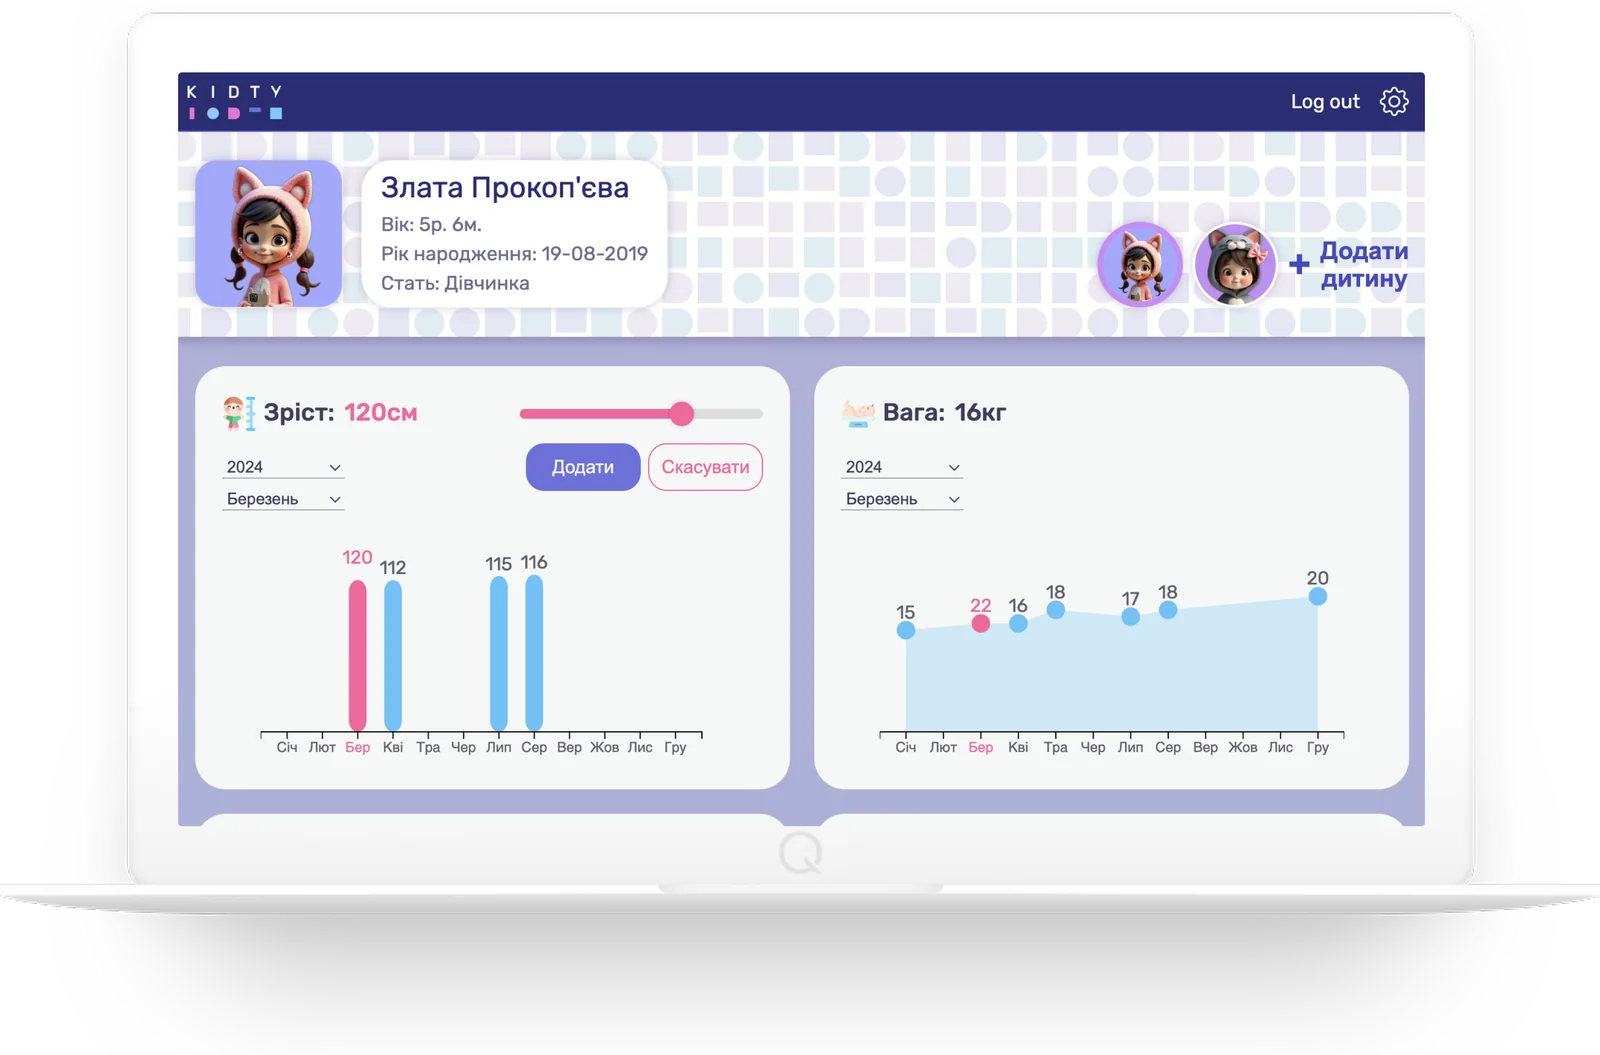
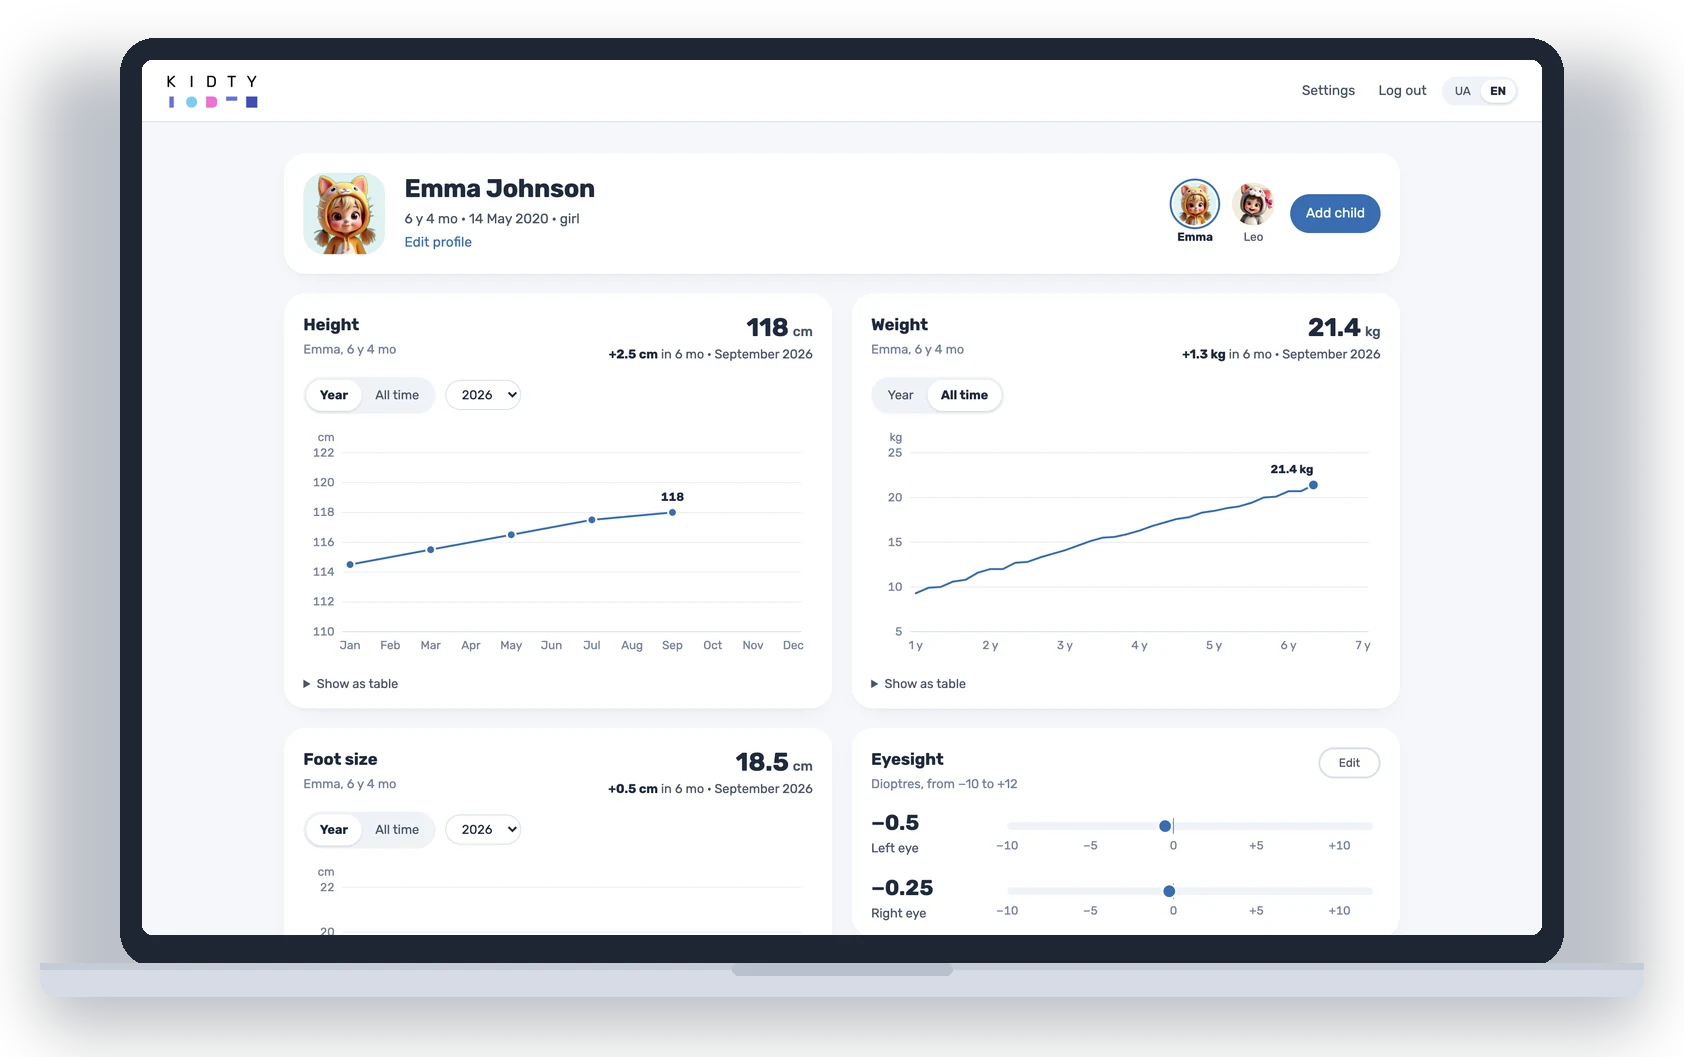
New English screenshots for the home page
- showcase seed (npm run db:seed:showcase): Emma and Leo Johnson with
  several years of measurements, eyesight and vaccinations
- scripts/screenshots: headless-Chrome capture over CDP and device
  frames (laptop, phone with status bar); see README
- replace the old purple mockups; phone bleeds out of its section
- charts: label every other month on narrow widths, hide individual
  dots on dense all-time charts (they broke up the line)

diff --git a/apps/api/prisma/seed-showcase.ts b/apps/api/prisma/seed-showcase.ts
@@ -1,0 +1,142 @@
+// Creates an English-named showcase account with several years of data,
+// used for screenshots on the home page. Re-runnable; leaves other
+// accounts untouched. Run with `npm run db:seed:showcase`.
+import argon2 from 'argon2';
+import { Prisma } from '../src/generated/prisma/client.js';
+import { prisma } from '../src/db.js';
+
+const email = process.env.SEED_SHOWCASE_EMAIL ?? 'showcase@kidty.local';
+const password = process.env.SEED_USER_PASSWORD;
+
+if (!password) {
+  throw new Error('Set SEED_USER_PASSWORD in apps/api/.env before seeding');
+}
+
+// Typical growth by age in months (roughly the WHO median for girls).
+const AGES = [12, 24, 36, 48, 60, 72, 84];
+const HEIGHT = [74.0, 85.7, 95.1, 102.7, 109.4, 115.1, 120.8];
+const WEIGHT = [8.9, 11.5, 13.9, 16.1, 18.2, 20.2, 22.4];
+const FOOT = [12.5, 13.8, 15.0, 16.2, 17.3, 18.3, 19.2];
+
+function interpolate(values: number[], age: number) {
+  if (age <= AGES[0]) return values[0];
+  for (let i = 1; i < AGES.length; i++) {
+    if (age <= AGES[i]) {
+      const t = (age - AGES[i - 1]) / (AGES[i] - AGES[i - 1]);
+      return values[i - 1] + (t * (values[i] - values[i - 1]));
+    }
+  }
+  return values.at(-1)!;
+}
+
+/** Deterministic pseudo-random noise so the data looks the same each run. */
+function noise(seed: number) {
+  const x = Math.sin(seed * 9301 + 49297) * 233280;
+  return x - Math.floor(x) - 0.5;
+}
+
+const round = (value: number, step: number) => Math.round(value / step) * step;
+
+type Birth = { year: number; month: number };
+
+function growthHistory(birth: Birth, until: Birth, everyMonths: number, offset: number) {
+  const rows: { type: 'HEIGHT' | 'WEIGHT' | 'FOOT'; year: number; month: number; value: Prisma.Decimal }[] = [];
+  let height = 0;
+  let foot = 0;
+  for (let age = 12; ; age += everyMonths) {
+    const total = (birth.year * 12) + (birth.month - 1) + age;
+    const year = Math.floor(total / 12);
+    const month = (total % 12) + 1;
+    if ((year * 12) + month > (until.year * 12) + until.month) break;
+
+    height = Math.max(height, round(interpolate(HEIGHT, age) + offset + (noise(age) * 0.6), 0.5));
+    foot = Math.max(foot, round(interpolate(FOOT, age) + (noise(age + 1) * 0.4), 0.5));
+    const weight = round(interpolate(WEIGHT, age) + (offset / 4) + (noise(age + 2) * 0.5), 0.1);
+
+    for (const [type, value] of [['HEIGHT', height], ['WEIGHT', weight], ['FOOT', foot]] as const) {
+      rows.push({ type, year, month, value: new Prisma.Decimal(value.toFixed(1)) });
+    }
+  }
+  return rows;
+}
+
+const date = (value: string) => new Date(`${value}T00:00:00Z`);
+
+async function main() {
+  await prisma.user.deleteMany({ where: { email } });
+
+  const user = await prisma.user.create({
+    data: { name: 'Anna Johnson', email, passwordHash: await argon2.hash(password!) },
+  });
+
+  const emma = await prisma.child.create({
+    data: {
+      userId: user.id,
+      name: 'Emma',
+      surname: 'Johnson',
+      birthDate: date('2020-05-14'),
+      gender: 'GIRL',
+      avatar: 3,
+    },
+  });
+  const leo = await prisma.child.create({
+    data: {
+      userId: user.id,
+      name: 'Leo',
+      surname: 'Johnson',
+      birthDate: date('2023-03-02'),
+      gender: 'BOY',
+      avatar: 6,
+    },
+  });
+
+  const until = { year: 2026, month: 9 };
+  await prisma.measurement.createMany({
+    data: [
+      ...growthHistory({ year: 2020, month: 5 }, until, 2, 1.4).map((m) => ({ ...m, childId: emma.id })),
+      ...growthHistory({ year: 2023, month: 3 }, until, 3, 0.6).map((m) => ({ ...m, childId: leo.id })),
+    ],
+  });
+
+  await prisma.eyeCheck.create({ data: { childId: emma.id, leftEye: -0.5, rightEye: -0.25 } });
+
+  // Vaccine names are the Ukrainian keys the API stores.
+  const emmaVaccines: [string, string][] = [
+    ['Туберкульоз', '2020-05-17'],
+    ['Гепатит Б', '2020-05-15'],
+    ['Гепатит Б', '2020-07-14'],
+    ['Гепатит Б', '2020-11-16'],
+    ...['2020-07-14', '2020-09-15', '2020-11-16', '2021-11-18'].flatMap((d) => [
+      ['Дифтерія-Правець', d] as [string, string],
+      ['Кашлюк', d] as [string, string],
+      ['Поліомієліт', d] as [string, string],
+    ]),
+    ['Хіб-інфекція', '2020-07-14'],
+    ['Хіб-інфекція', '2020-09-15'],
+    ['Хіб-інфекція', '2021-05-20'],
+    ['Кір-Краснуха-Паротит', '2021-05-20'],
+    ['Кір-Краснуха-Паротит', '2026-05-19'],
+  ];
+  const leoVaccines: [string, string][] = [
+    ['Туберкульоз', '2023-03-06'],
+    ['Гепатит Б', '2023-03-03'],
+    ['Гепатит Б', '2023-05-04'],
+    ['Кір-Краснуха-Паротит', '2024-03-05'],
+  ];
+  await prisma.vaccination.createMany({
+    data: [
+      ...emmaVaccines.map(([type, d]) => ({ childId: emma.id, type, date: date(d) })),
+      ...leoVaccines.map(([type, d]) => ({ childId: leo.id, type, date: date(d) })),
+    ],
+  });
+
+  const count = await prisma.measurement.count({ where: { child: { userId: user.id } } });
+  console.log(`Seeded showcase account ${email}: Emma and Leo, ${count} measurements.`);
+}
+
+main()
+  .catch((error) => {
+    console.error(error);
+    process.exitCode = 1;
+  })
+  .finally(() => prisma.$disconnect());

diff --git a/apps/web/src/Pages/HomePage.tsx b/apps/web/src/Pages/HomePage.tsx
@@ -173,7 +173,7 @@ export const HomePage: React.FC = () => {
             <img
               src={notebook}
               alt={t('home.hero.laptopAlt')}
-              className="relative w-full drop-shadow-2xl"
+              className="relative w-full"
             />
 
             <div className="absolute -left-2 bottom-10 hidden items-center gap-3 rounded-2xl bg-white/90 px-4 py-3 shadow-xl ring-1 ring-primary-900/5 backdrop-blur sm:flex motion-safe:animate-floatY">
@@ -216,7 +216,7 @@ export const HomePage: React.FC = () => {
                 <img
                   src={weightCard}
                   alt=""
-                  className="w-full max-w-lg translate-y-[12%] drop-shadow-xl"
+                  className="w-full max-w-lg translate-y-[8%]"
                 />
               </div>
             </Card>
@@ -248,7 +248,7 @@ export const HomePage: React.FC = () => {
               <img
                 src={vaccination}
                 alt=""
-                className="w-full drop-shadow-xl"
+                className="w-full"
               />
             </Card>
           </Reveal>
@@ -292,7 +292,7 @@ export const HomePage: React.FC = () => {
       {/* Mobile */}
       <section className="mx-auto max-w-6xl px-4 py-20 md:px-8 md:py-28">
         <Reveal>
-          <div className="relative grid items-center gap-10 overflow-hidden rounded-[2.5rem] bg-primary-800 px-6 pt-12 md:px-14 lg:grid-cols-2 lg:py-6">
+          <div className="relative grid items-center gap-10 overflow-hidden rounded-[2.5rem] bg-primary-800 px-6 pt-12 md:px-14 lg:grid-cols-2 lg:pt-16">
             <div className="pointer-events-none absolute -right-24 -top-24 size-96 rounded-full bg-primary-500/40 blur-3xl" />
             <div className="pointer-events-none absolute -bottom-32 left-10 size-80 rounded-full bg-secondary-500/20 blur-3xl" />
 
@@ -316,7 +316,7 @@ export const HomePage: React.FC = () => {
             <img
               src={phone}
               alt={t('home.mobile.phoneAlt')}
-              className="relative mx-auto w-full max-w-md lg:max-w-none"
+              className="relative mx-auto -mb-28 w-[260px] sm:w-[300px] lg:-mb-36 lg:w-[320px]"
             />
           </div>
         </Reveal>

diff --git a/apps/web/src/Charts/Growth/HistoryChart.tsx b/apps/web/src/Charts/Growth/HistoryChart.tsx
@@ -48,6 +48,8 @@ export const HistoryChart: React.FC<Props> = ({ points, currentAge, unit, onSele
   const years = range(minAge, maxAge + 1, 12);
   const path = line<AgedPoint>().x((p) => x(p.age)).y((p) => y(p.value))(points);
   const last = points[points.length - 1];
+  // With many measurements, individual dots would break up the line.
+  const dense = points.length > 24;
 
   const pick = (clientX: number, target: SVGRectElement) => {
     const box = target.ownerSVGElement!.getBoundingClientRect();
@@ -83,7 +85,7 @@ export const HistoryChart: React.FC<Props> = ({ points, currentAge, unit, onSele
 
         {hover && <line className="stroke-hairline" x1={x(hover.age)} x2={x(hover.age)} y1={M.top - 6} y2={HEIGHT - M.bottom} />}
         {path && <path d={path} className="fill-none stroke-primary" strokeWidth={2} strokeLinejoin="round" strokeLinecap="round" />}
-        {points.map((p) => (
+        {points.filter((p) => !dense || p === hover || p === last).map((p) => (
           <circle
             key={p.id}
             className="fill-primary stroke-white"

diff --git a/apps/web/src/Charts/Growth/YearChart.tsx b/apps/web/src/Charts/Growth/YearChart.tsx
@@ -73,6 +73,8 @@ export const YearChart: React.FC<Props> = ({
   );
   const hovered = hover !== null ? shown.find((p) => p.month === hover) : undefined;
   const bandWidth = x.step();
+  // On narrow charts label every other month so the labels don't collide.
+  const labelEvery = bandWidth < 30 ? 2 : 1;
 
   return (
     <div ref={ref} className="relative">
@@ -110,7 +112,7 @@ export const YearChart: React.FC<Props> = ({
         )}
 
         <line className="stroke-hairline" x1={M.left} x2={width - M.right} y1={HEIGHT - M.bottom} y2={HEIGHT - M.bottom} />
-        {MONTHS.map((m) => (
+        {MONTHS.filter((m) => (m - 1) % labelEvery === 0 || m === preview?.month).map((m) => (
           <text
             key={m}
             className={`text-xs ${m === preview?.month ? 'fill-ink font-semibold' : 'fill-muted'}`}

diff --git a/scripts/screenshots/compose.py b/scripts/screenshots/compose.py
@@ -1,0 +1,85 @@
+# Puts the screenshots into simple device frames for the home page.
+import os, sys
+from PIL import Image, ImageDraw, ImageFilter
+
+HERE = os.path.dirname(os.path.abspath(__file__))
+SRC = os.path.join(HERE, 'out')
+OUT = sys.argv[1] if len(sys.argv) > 1 else os.path.join(HERE, '../../apps/web/src/assets/images')
+
+def rounded(size, radius, fill):
+    im = Image.new('RGBA', size, (0, 0, 0, 0))
+    ImageDraw.Draw(im).rounded_rectangle([0, 0, size[0] - 1, size[1] - 1], radius, fill=fill)
+    return im
+
+def shadow(size, radius, offset, blur, alpha):
+    sh = Image.new('RGBA', (size[0] + blur * 4, size[1] + blur * 4), (0, 0, 0, 0))
+    ImageDraw.Draw(sh).rounded_rectangle([blur * 2, blur * 2 + offset, blur * 2 + size[0], blur * 2 + size[1] + offset], radius, fill=(15, 30, 60, alpha))
+    return sh.filter(ImageFilter.GaussianBlur(blur))
+
+def screen(path, width, radius):
+    im = Image.open(path).convert('RGBA')
+    im = im.resize((width, round(im.height * width / im.width)), Image.LANCZOS)
+    mask = rounded(im.size, radius, (255, 255, 255, 255)).getchannel('A')
+    im.putalpha(mask)
+    return im
+
+def laptop():
+    scr = screen(f'{SRC}/desktop.png', 1400, 10)
+    bezel = 22
+    lid = rounded((scr.width + bezel * 2, scr.height + bezel * 2 + 10), 34, (32, 38, 52, 255))
+    lid.alpha_composite(scr, (bezel, bezel))
+    base_w, base_h = lid.width + 160, 34
+    canvas = Image.new('RGBA', (base_w + 80, lid.height + base_h + 120), (0, 0, 0, 0))
+    canvas.alpha_composite(shadow((base_w, lid.height + base_h), 30, 26, 28, 70), (40 - 56, 40 - 56))
+    lx = (canvas.width - lid.width) // 2
+    canvas.alpha_composite(lid, (lx, 40))
+    base = Image.new('RGBA', (base_w, base_h), (0, 0, 0, 0))
+    d = ImageDraw.Draw(base)
+    d.rounded_rectangle([0, 0, base_w - 1, base_h - 1], 16, fill=(214, 220, 230, 255))
+    d.rectangle([0, 0, base_w - 1, 6], fill=(196, 203, 215, 255))
+    d.rounded_rectangle([base_w // 2 - 110, 0, base_w // 2 + 110, 12], 6, fill=(184, 192, 205, 255))
+    canvas.alpha_composite(base, ((canvas.width - base_w) // 2, 40 + lid.height - 4))
+    return canvas.crop(canvas.getbbox())
+
+FONT = os.path.join(HERE, '../../apps/web/src/assets/fonts/Rubik-Medium.ttf')
+
+def status_bar_screen(path, width, radius, bar=78):
+    """Screenshot below a phone status bar (time, signal, battery)."""
+    from PIL import ImageFont
+    shot = Image.open(path).convert('RGBA')
+    shot = shot.resize((width, round(shot.height * width / shot.width)), Image.LANCZOS)
+    scr = Image.new('RGBA', (width, shot.height), (255, 255, 255, 255))
+    scr.alpha_composite(shot.crop((0, 0, width, shot.height - bar)), (0, bar))
+    d = ImageDraw.Draw(scr)
+    font = ImageFont.truetype(FONT, 26)
+    d.text((70, 26), '9:41', font=font, fill=(17, 24, 39, 255))
+    x = width - 70
+    d.rounded_rectangle([x - 44, 30, x, 52], 6, outline=(17, 24, 39, 255), width=2)
+    d.rounded_rectangle([x - 40, 34, x - 10, 48], 3, fill=(17, 24, 39, 255))
+    d.rectangle([x + 2, 37, x + 5, 45], fill=(17, 24, 39, 255))
+    for i, h in enumerate([8, 12, 16, 20]):
+        d.rounded_rectangle([x - 100 + i * 9, 52 - h, x - 94 + i * 9, 52], 2, fill=(17, 24, 39, 255))
+    scr.putalpha(rounded(scr.size, radius, (255, 255, 255, 255)).getchannel('A'))
+    return scr
+
+def phone():
+    scr = status_bar_screen(f'{SRC}/mobile.png', 660, 74)
+    bezel = 18
+    body = rounded((scr.width + bezel * 2, scr.height + bezel * 2), 92, (32, 38, 52, 255))
+    ImageDraw.Draw(body).rounded_rectangle([1, 1, body.width - 2, body.height - 2], 91, outline=(96, 106, 128, 255), width=3)
+    body.alpha_composite(scr, (bezel, bezel))
+    island = rounded((190, 54), 27, (12, 14, 20, 255))
+    body.alpha_composite(island, ((body.width - island.width) // 2, bezel + 14))
+    canvas = Image.new('RGBA', (body.width + 120, body.height + 140), (0, 0, 0, 0))
+    canvas.alpha_composite(shadow(body.size, 92, 24, 26, 90), (60 - 52, 50 - 52))
+    canvas.alpha_composite(body, (60, 50))
+    return canvas.crop(canvas.getbbox())
+
+def card(name, width):
+    im = Image.open(f'{SRC}/{name}.png').convert('RGBA')
+    return im.resize((width, round(im.height * width / im.width)), Image.LANCZOS)
+
+for out, im in [('laptop', laptop()), ('phone', phone()),
+                ('weight-card', card('weight-card', 1100)), ('vaccination-card', card('vaccines-card', 1600))]:
+    im.save(f'{OUT}/{out}.webp', 'WEBP', quality=88, method=6)
+    print(out, im.size, os.path.getsize(f'{OUT}/{out}.webp') // 1024, 'KB')

diff --git a/scripts/screenshots/README.md b/scripts/screenshots/README.md
@@ -1,0 +1,19 @@
+# Home page screenshots
+
+Regenerates the device mockups used on the home page
+(`apps/web/src/assets/images/{laptop,phone,weight-card,vaccination-card}.webp`).
+
+Requirements: the API and web dev servers running, Google Chrome installed,
+Python 3 with Pillow (`pip install pillow`).
+
+```bash
+npm run db:seed:showcase -w @kidty/api      # English demo account (Emma & Leo)
+
+# capture (uses SEED_USER_PASSWORD from apps/api/.env)
+set -a; . apps/api/.env; set +a
+SHOWCASE_EMAIL=showcase@kidty.local SHOWCASE_PASSWORD="$SEED_USER_PASSWORD" \
+  node scripts/screenshots/capture.mjs
+
+# frame and export into the web app's assets
+python3 scripts/screenshots/compose.py
+```
